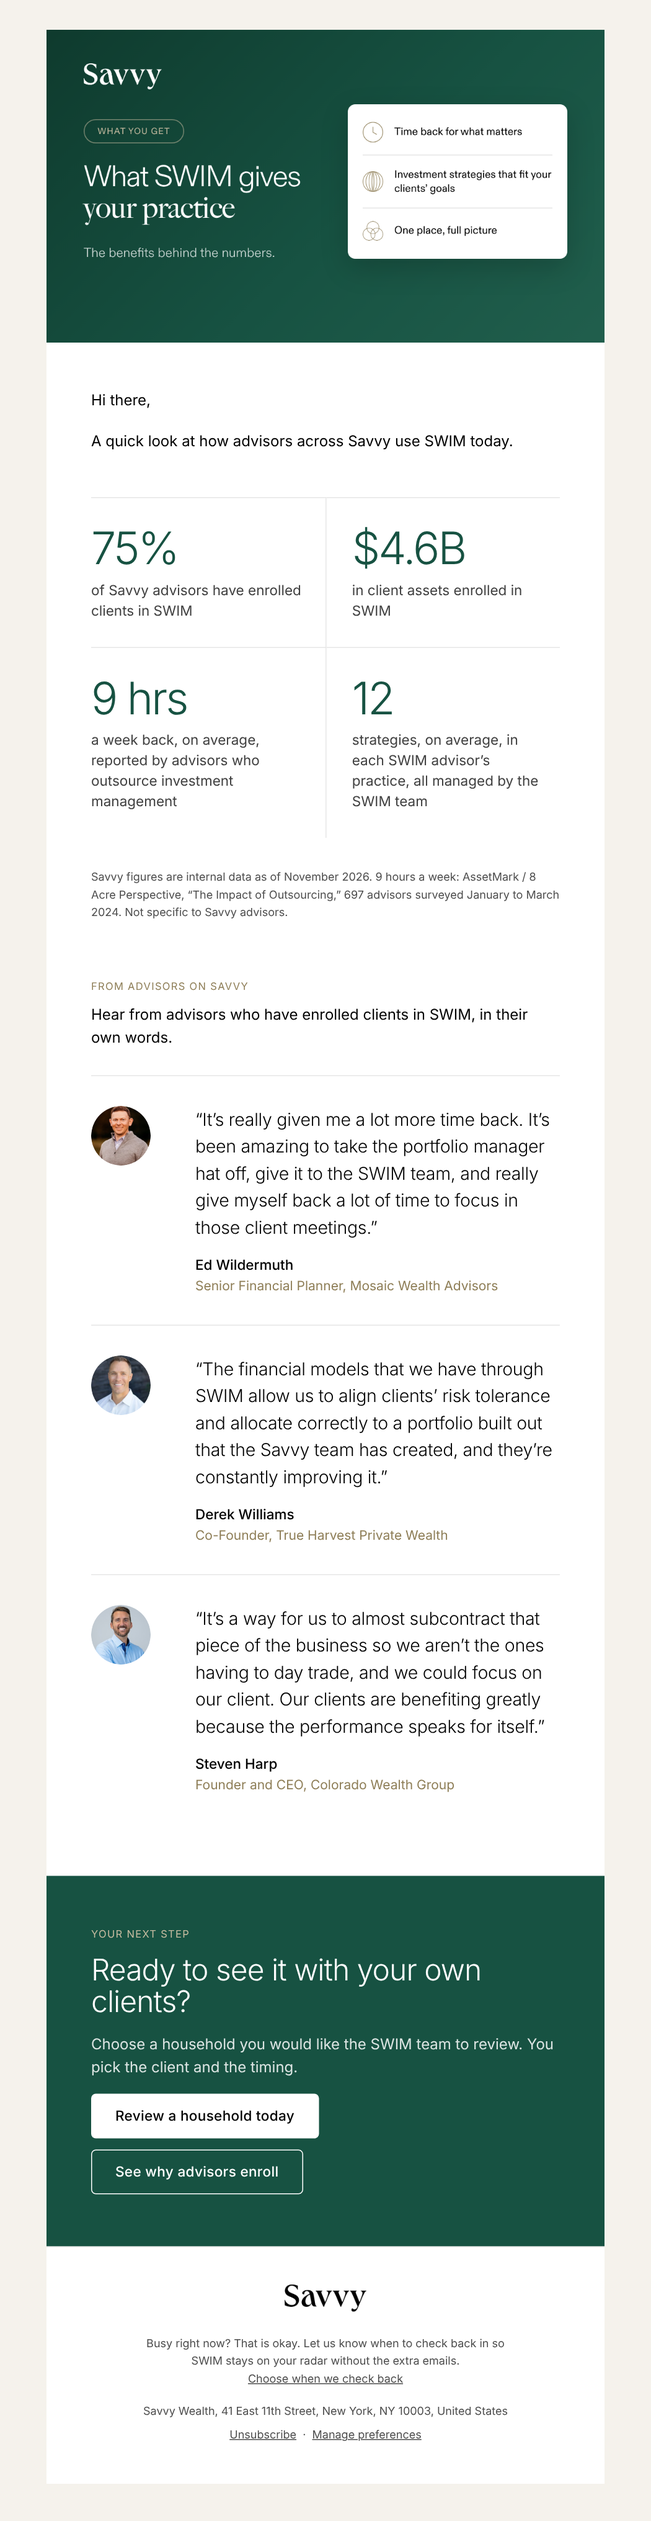
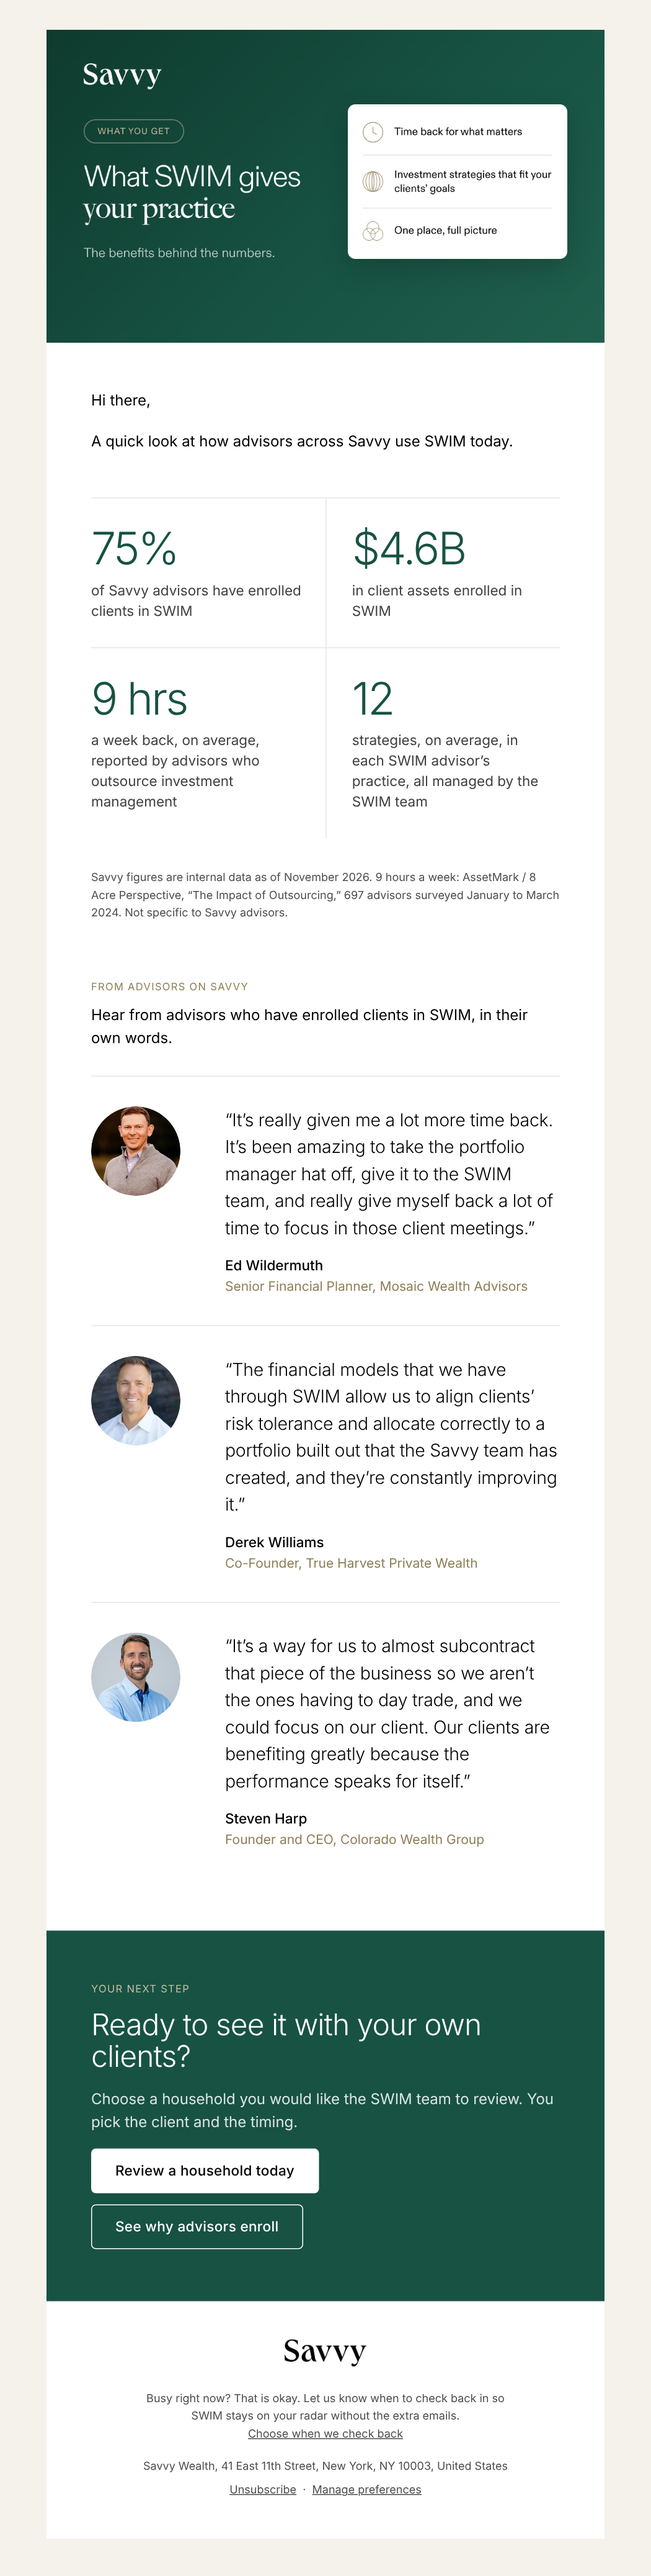
Email 3: larger advisor photos
Claude-Session: https://claude.ai/code/session_01C4U8FBFynJxChWkXC4yVRQ

diff --git a/emails/nurture-3.html b/emails/nurture-3.html
@@ -60,7 +60,7 @@
 <div style="margin-top:0px;font-family:'Inter',Arial,Helvetica,sans-serif;font-size:11px;line-height:12px;letter-spacing:0.08em;text-transform:uppercase;color:#8E7E57;">From advisors on Savvy</div><div style="margin-top:12px;font-family:'Inter',Arial,Helvetica,sans-serif;font-size:16px;line-height:25px;color:#000000;">Hear from advisors who have enrolled clients in SWIM, in their own words.</div><table role="presentation" width="100%" cellpadding="0" cellspacing="0" border="0" style="margin-top:28px;">
         <tr><td style="border-top:1px solid #E6E6E6;padding:32px 0;">
           <table role="presentation" width="100%" cellpadding="0" cellspacing="0" border="0"><tr>
-            <td class="stack" width="88" valign="top" style="width:88px;padding-right:24px;"><img src="./assets/advisor-ed-wildermuth.png" width="64" height="64" alt="Ed Wildermuth" style="width:64px;height:64px;border-radius:50%;"></td>
+            <td class="stack" width="120" valign="top" style="width:120px;padding-right:24px;"><img src="./assets/advisor-ed-wildermuth.png" width="96" height="96" alt="Ed Wildermuth" style="width:96px;height:96px;border-radius:50%;"></td>
             <td class="stack" valign="top" style="font-family:'Inter',Arial,Helvetica,sans-serif;">
               <div style="font-weight:300;font-size:19px;line-height:29px;letter-spacing:-0.01em;color:#000000;">&ldquo;It&rsquo;s really given me a lot more time back. It&rsquo;s been amazing to take the portfolio manager hat off, give it to the SWIM team, and really give myself back a lot of time to focus in those client meetings.&rdquo;</div>
               <div style="margin-top:16px;font-weight:500;font-size:15px;line-height:20px;color:#000000;">Ed Wildermuth</div>
@@ -70,7 +70,7 @@
         </td></tr>
         <tr><td style="border-top:1px solid #E6E6E6;padding:32px 0;">
           <table role="presentation" width="100%" cellpadding="0" cellspacing="0" border="0"><tr>
-            <td class="stack" width="88" valign="top" style="width:88px;padding-right:24px;"><img src="./assets/advisor-derek-williams.png" width="64" height="64" alt="Derek Williams" style="width:64px;height:64px;border-radius:50%;"></td>
+            <td class="stack" width="120" valign="top" style="width:120px;padding-right:24px;"><img src="./assets/advisor-derek-williams.png" width="96" height="96" alt="Derek Williams" style="width:96px;height:96px;border-radius:50%;"></td>
             <td class="stack" valign="top" style="font-family:'Inter',Arial,Helvetica,sans-serif;">
               <div style="font-weight:300;font-size:19px;line-height:29px;letter-spacing:-0.01em;color:#000000;">&ldquo;The financial models that we have through SWIM allow us to align clients&rsquo; risk tolerance and allocate correctly to a portfolio built out that the Savvy team has created, and they&rsquo;re constantly improving it.&rdquo;</div>
               <div style="margin-top:16px;font-weight:500;font-size:15px;line-height:20px;color:#000000;">Derek Williams</div>
@@ -80,7 +80,7 @@
         </td></tr>
         <tr><td style="border-top:1px solid #E6E6E6;padding:32px 0;">
           <table role="presentation" width="100%" cellpadding="0" cellspacing="0" border="0"><tr>
-            <td class="stack" width="88" valign="top" style="width:88px;padding-right:24px;"><img src="./assets/advisor-steven-harp.png" width="64" height="64" alt="Steven Harp" style="width:64px;height:64px;border-radius:50%;"></td>
+            <td class="stack" width="120" valign="top" style="width:120px;padding-right:24px;"><img src="./assets/advisor-steven-harp.png" width="96" height="96" alt="Steven Harp" style="width:96px;height:96px;border-radius:50%;"></td>
             <td class="stack" valign="top" style="font-family:'Inter',Arial,Helvetica,sans-serif;">
               <div style="font-weight:300;font-size:19px;line-height:29px;letter-spacing:-0.01em;color:#000000;">&ldquo;It&rsquo;s a way for us to almost subcontract that piece of the business so we aren&rsquo;t the ones having to day trade, and we could focus on our client. Our clients are benefiting greatly because the performance speaks for itself.&rdquo;</div>
               <div style="margin-top:16px;font-weight:500;font-size:15px;line-height:20px;color:#000000;">Steven Harp</div>

diff --git a/emails/build_emails.py b/emails/build_emails.py
@@ -380,7 +380,7 @@ def quote(img, alt, text, name, title, first=False):
     return f"""
         <tr><td style="{bt}padding:32px 0;">
           <table role="presentation" width="100%" cellpadding="0" cellspacing="0" border="0"><tr>
-            <td class="stack" width="88" valign="top" style="width:88px;padding-right:24px;"><img src="./assets/{img}" width="64" height="64" alt="{alt}" style="width:64px;height:64px;border-radius:50%;"></td>
+            <td class="stack" width="120" valign="top" style="width:120px;padding-right:24px;"><img src="./assets/{img}" width="96" height="96" alt="{alt}" style="width:96px;height:96px;border-radius:50%;"></td>
             <td class="stack" valign="top" style="font-family:{SANS};">
               <div style="font-weight:300;font-size:19px;line-height:29px;letter-spacing:-0.01em;color:#000000;">&ldquo;{text}&rdquo;</div>
               <div style="margin-top:16px;font-weight:500;font-size:15px;line-height:20px;color:#000000;">{name}</div>
